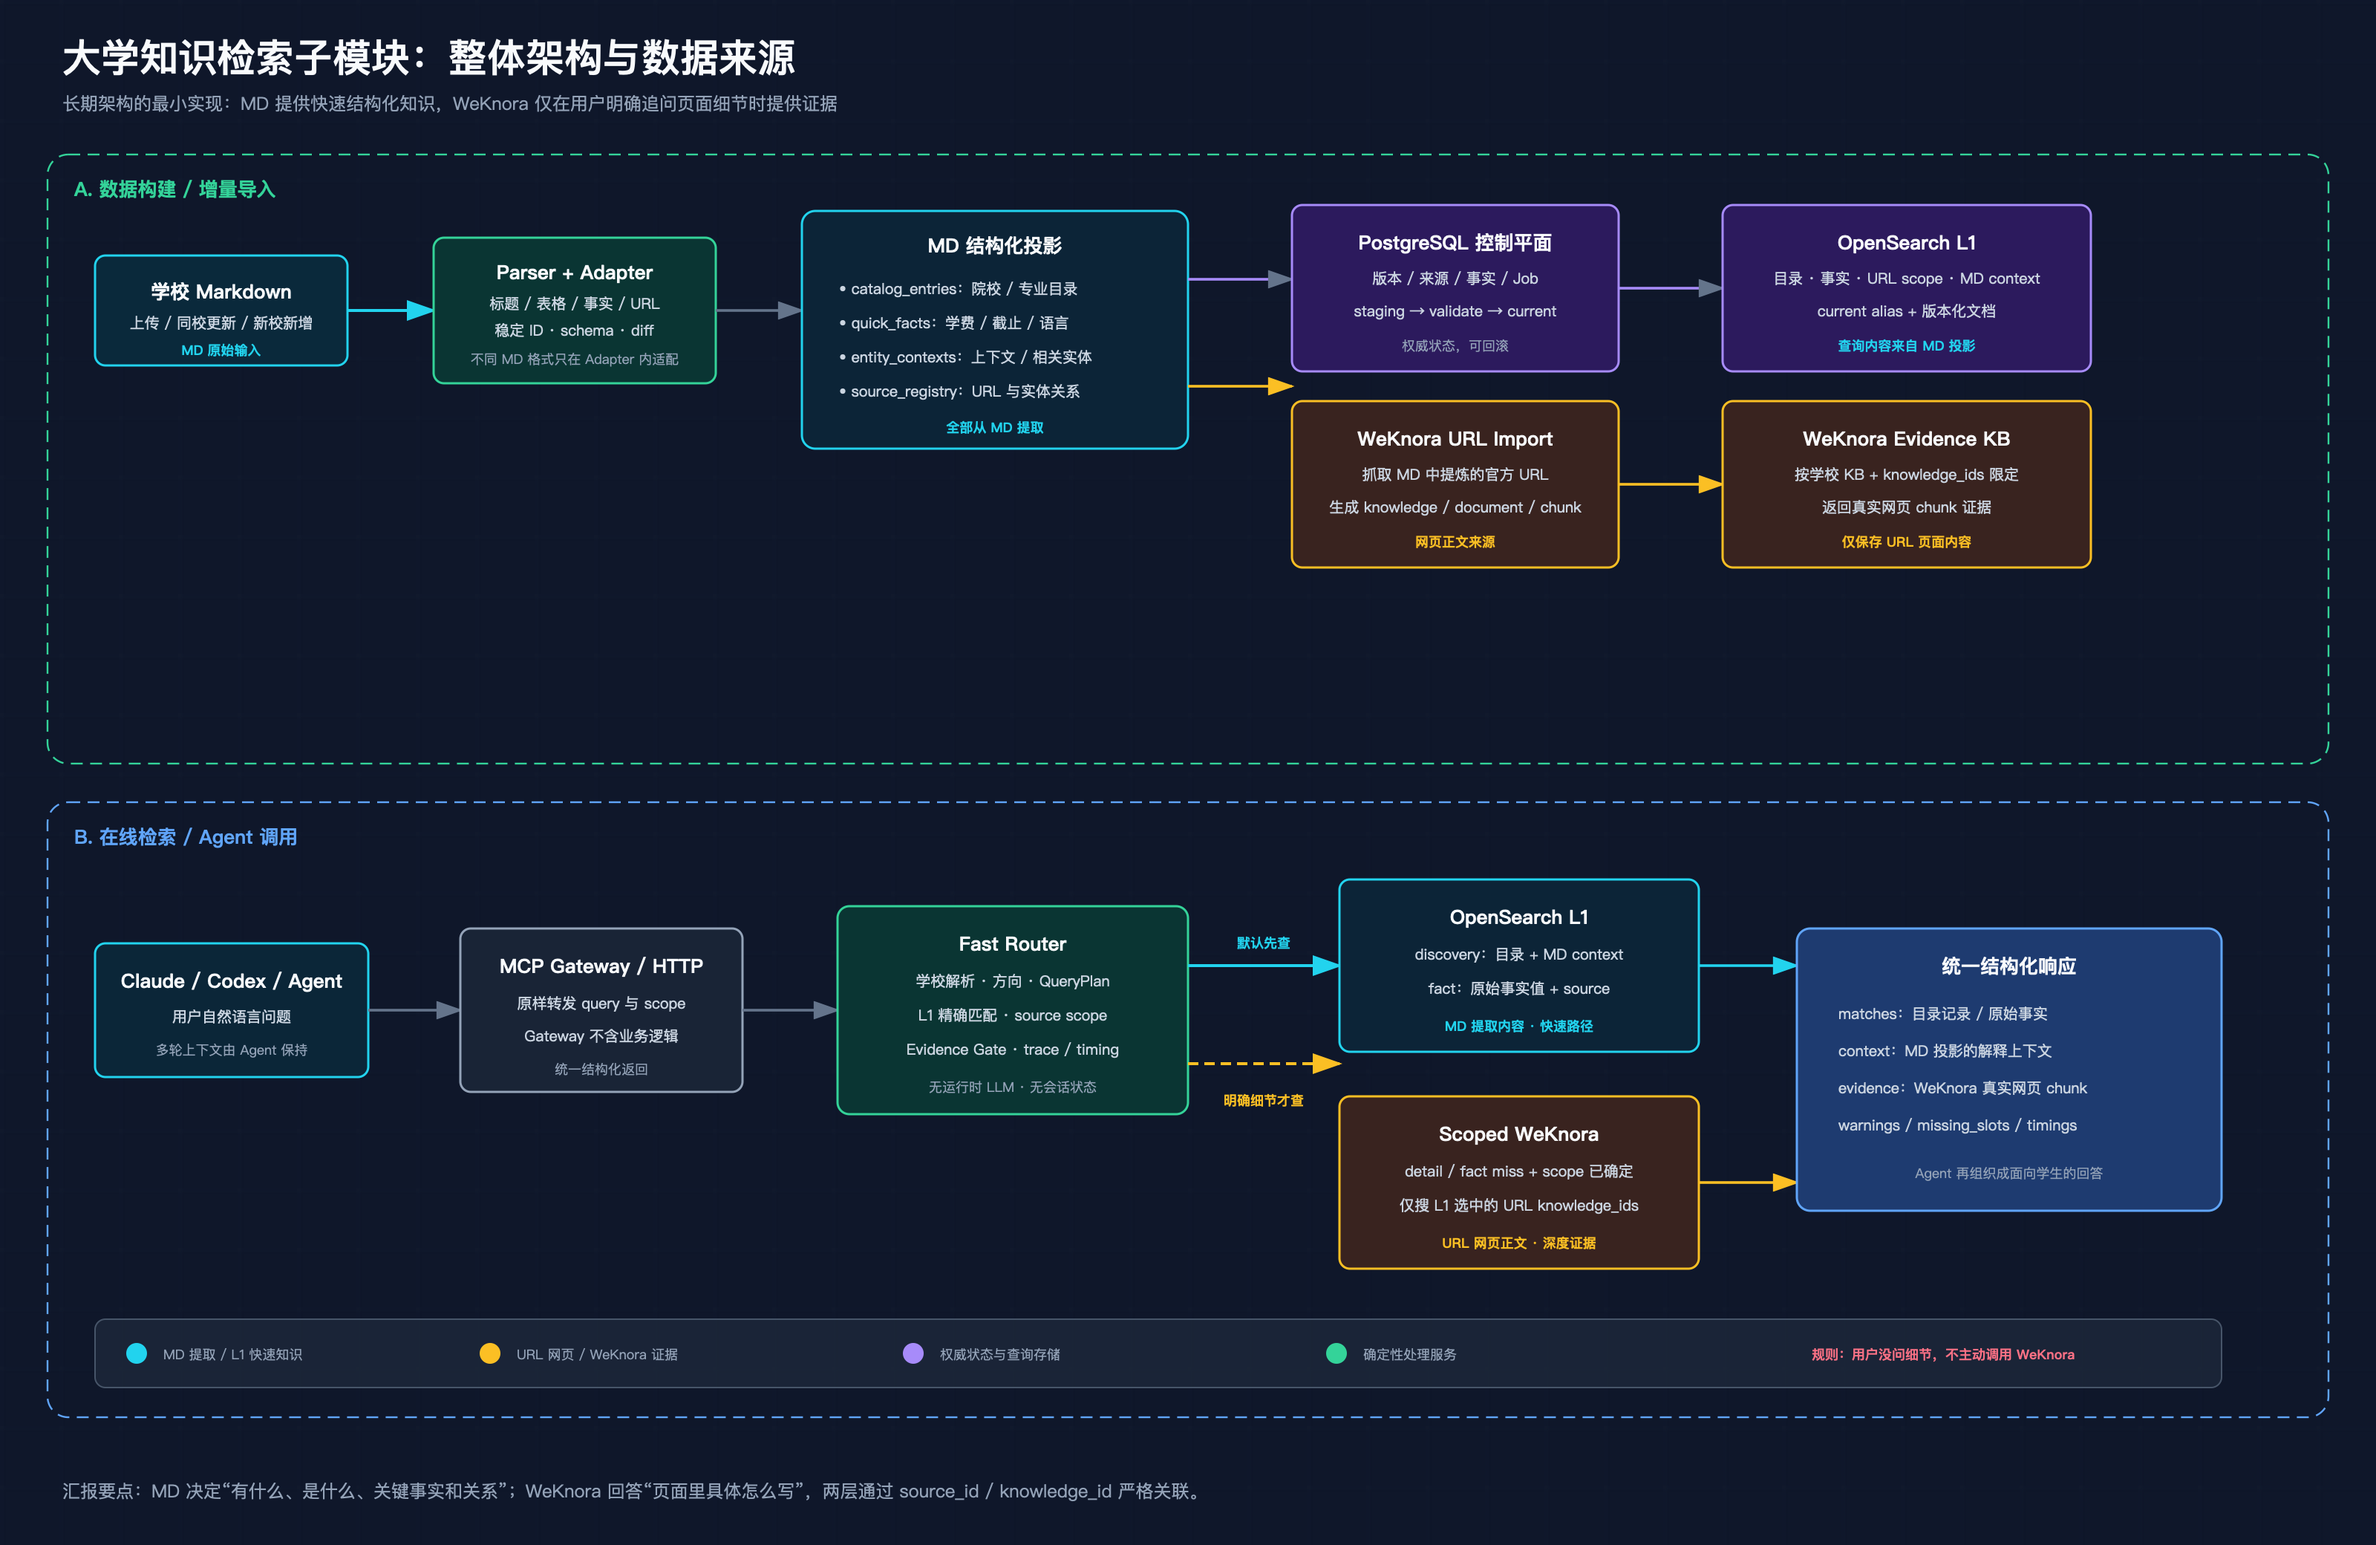
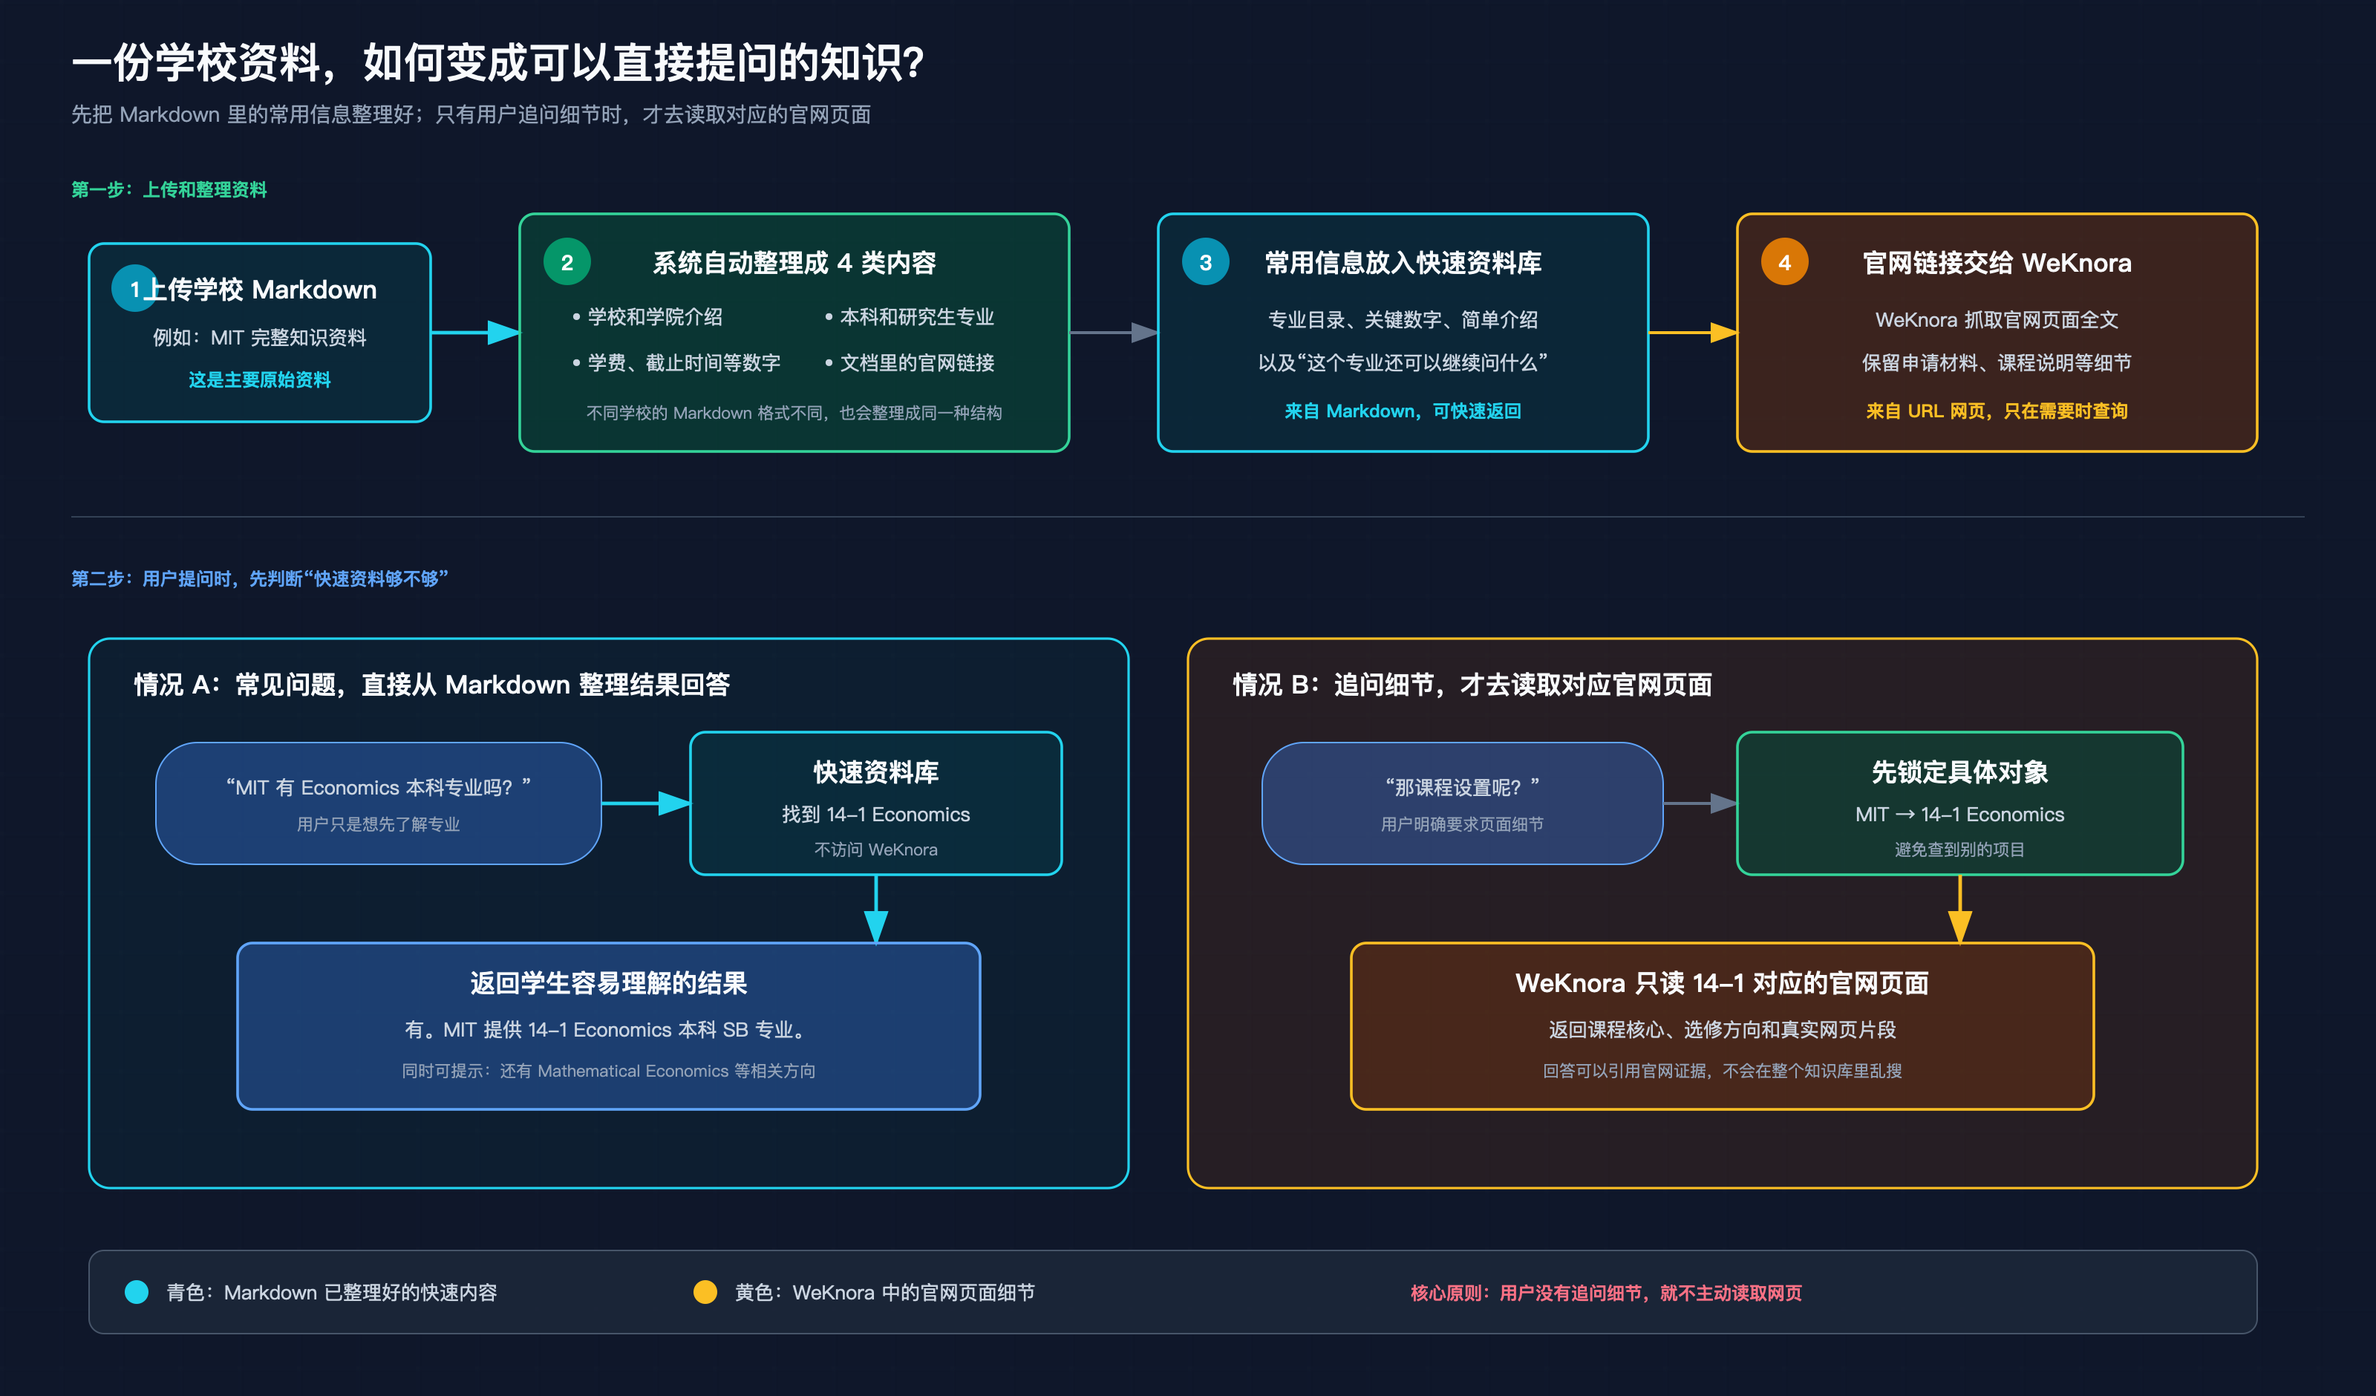
Simplify retrieval diagrams for nontechnical audiences

diff --git a/docs/diagrams/reporting/README.md b/docs/diagrams/reporting/README.md
@@ -1,28 +1,30 @@
 # 汇报流程图
 
-1. `01-overall-architecture-flow.svg/png`：整体架构、MD 与 WeKnora 数据来源边界。
-2. `02-fast-router-principle.svg/png`：Fast Router 的方向判断、意图分层、OpenSearch 匹配和 Evidence Gate。
-3. `03-data-storage-architecture.svg/png`：PostgreSQL 权威层、OpenSearch 查询投影、WeKnora 网页证据层。
+1. `01-overall-architecture-flow.svg/png`：用两个真实问题说明 Markdown 快速路径和 WeKnora 细节路径。
+2. `02-fast-router-principle.svg/png`：把 Fast Router 解释成“问题分流员”，按用户想了解的深度选择路线。
+3. `03-data-storage-architecture.svg/png`：把数据存储解释成四个不同用途的“柜子”。
 
 ## 建议讲解顺序
 
 ### 图 1：整体架构
 
-1. 先看上半部分：上传 Markdown 后，Parser 一次提取目录、事实、上下文和 URL。
-2. 青色链路全部来自 MD，是 1 秒内快速检索的基础；琥珀色链路来自 URL 页面正文，是 WeKnora 深度证据。
-3. 在线查询默认先走 OpenSearch L1。只有用户明确问申请材料、课程细节、资格政策等内容，才按 L1 选定的 URL scope 调 WeKnora。
-4. 最终响应中 `matches/context` 来自 MD，`evidence` 才是 WeKnora 网页证据。
+1. 学校先提供一份 Markdown 资料，系统自动整理出学校介绍、专业、关键数字和官网链接。
+2. 青色代表 Markdown 里已经整理好的内容，查询快，适合回答“有没有这个专业”“学费多少”之类的常见问题。
+3. 黄色代表官网页面内容。只有用户继续问课程设置、申请材料等细节时，系统才让 WeKnora 阅读对应页面。
+4. 例如先问“MIT 有 Economics 本科专业吗”，从 Markdown 快速回答；再问“那课程设置呢”，才读取 14-1 Economics 对应的官网页面。
 
 ### 图 2：Fast Router
 
-1. 先解析学校和搜索方向，显式学校范围优先，未知学校不会默认成 MIT。
-2. QueryPlan 的优先级是 `detail > fact > discovery`，避免申请材料问题被 TOEFL/GRE 等事实词截断。
-3. OpenSearch 一次并行查目录、事实、来源和实体上下文；专业定位后，再按精确 `source_id` 收敛一次。
-4. discovery 或事实命中直接返回 L1；scope 模糊先反问；明确细节才进入 Scoped WeKnora。
+1. 可以把 Fast Router 理解成“问题分流员”，它本身不写长答案，只决定去哪里找资料。
+2. 第一步先确认用户在问哪所学校、哪个专业；如果说不清楚，就先反问，不能猜成 MIT。
+3. 第二步判断用户只是想了解学校或专业、询问一个明确数字，还是追问官网页面里的具体细节。
+4. 常见内容走 Markdown 快速资料；页面细节先锁定具体项目，再让 WeKnora 只读相关官网页面。
+5. 最后统一告诉 AI：找到了什么、依据是什么、还有什么没有找到，再由 AI 组织成自然回答。
 
 ### 图 3：数据存储
 
-1. PostgreSQL 保存权威版本、来源生命周期、事实状态和 WeKnora Job，是系统真源。
-2. OpenSearch 是面向查询的 L1 投影，热路径不查询 PostgreSQL。
-3. WeKnora 保存 URL 页面和 chunk，不保存目录主数据。
-4. 三层通过 `entry_id/fact_id -> source_id -> knowledge_id/chunk_id` 串联；OpenSearch 和 WeKnora 都可以从 PostgreSQL 控制面重建。
+1. 原始资料柜保存学校上传的 Markdown，方便以后重新处理和核对。
+2. PostgreSQL 是管理账本，记录当前应该使用哪个版本、每条信息来自哪里、官网导入是否成功。
+3. OpenSearch 是快速查找架，放常见问题需要的副本，用户提问时主要从这里快速找答案。
+4. WeKnora 是官网全文柜，保存申请材料、课程说明等网页正文，用于回答需要引用官网细节的问题。
+5. 一句话总结：PostgreSQL 管“哪个版本是真的”，OpenSearch 管“快速找到”，WeKnora 管“官网具体怎么写”。

diff --git a/docs/work/reporting-diagrams-handoff.md b/docs/work/reporting-diagrams-handoff.md
@@ -4,14 +4,14 @@ Status: done
 
 ## Goal
 
-Create three presentation-ready diagrams for the current L1 + WeKnora retrieval architecture.
+Create three plain-language presentation diagrams for non-technical audiences explaining the current Markdown + WeKnora retrieval flow.
 
 ## Delivered
 
-- Overall architecture and MD/WeKnora source boundary.
-- Fast Router deterministic matching and routing rules.
-- PostgreSQL/OpenSearch/WeKnora storage architecture.
-- SVG source files, 2x PNG exports, and Chinese presenter notes.
+- Overall flow explained with two real student questions and clear Markdown/WeKnora color coding.
+- Fast Router explained as a “问题分流员”, without internal query-plan terminology.
+- Storage explained as four cabinets: original files, management ledger, quick lookup shelf, and official-page archive.
+- SVG source files, high-resolution PNG exports, and plain-Chinese presenter notes.
 
 ## Files
 
@@ -23,5 +23,5 @@ Create three presentation-ready diagrams for the current L1 + WeKnora retrieval 
 ## Verification
 
 - All SVG files pass XML validation.
-- PNG dimensions: 3200x2080, 3200x2520, and 3200x2100.
-- Visual inspection confirmed rendered Chinese text and no incoherent node overlap.
+- PNG dimensions: 3200x1880, 3200x2080, and 3200x1880.
+- Visual inspection confirmed rendered Chinese text, straight orthogonal connectors, readable examples, and no node overlap.
